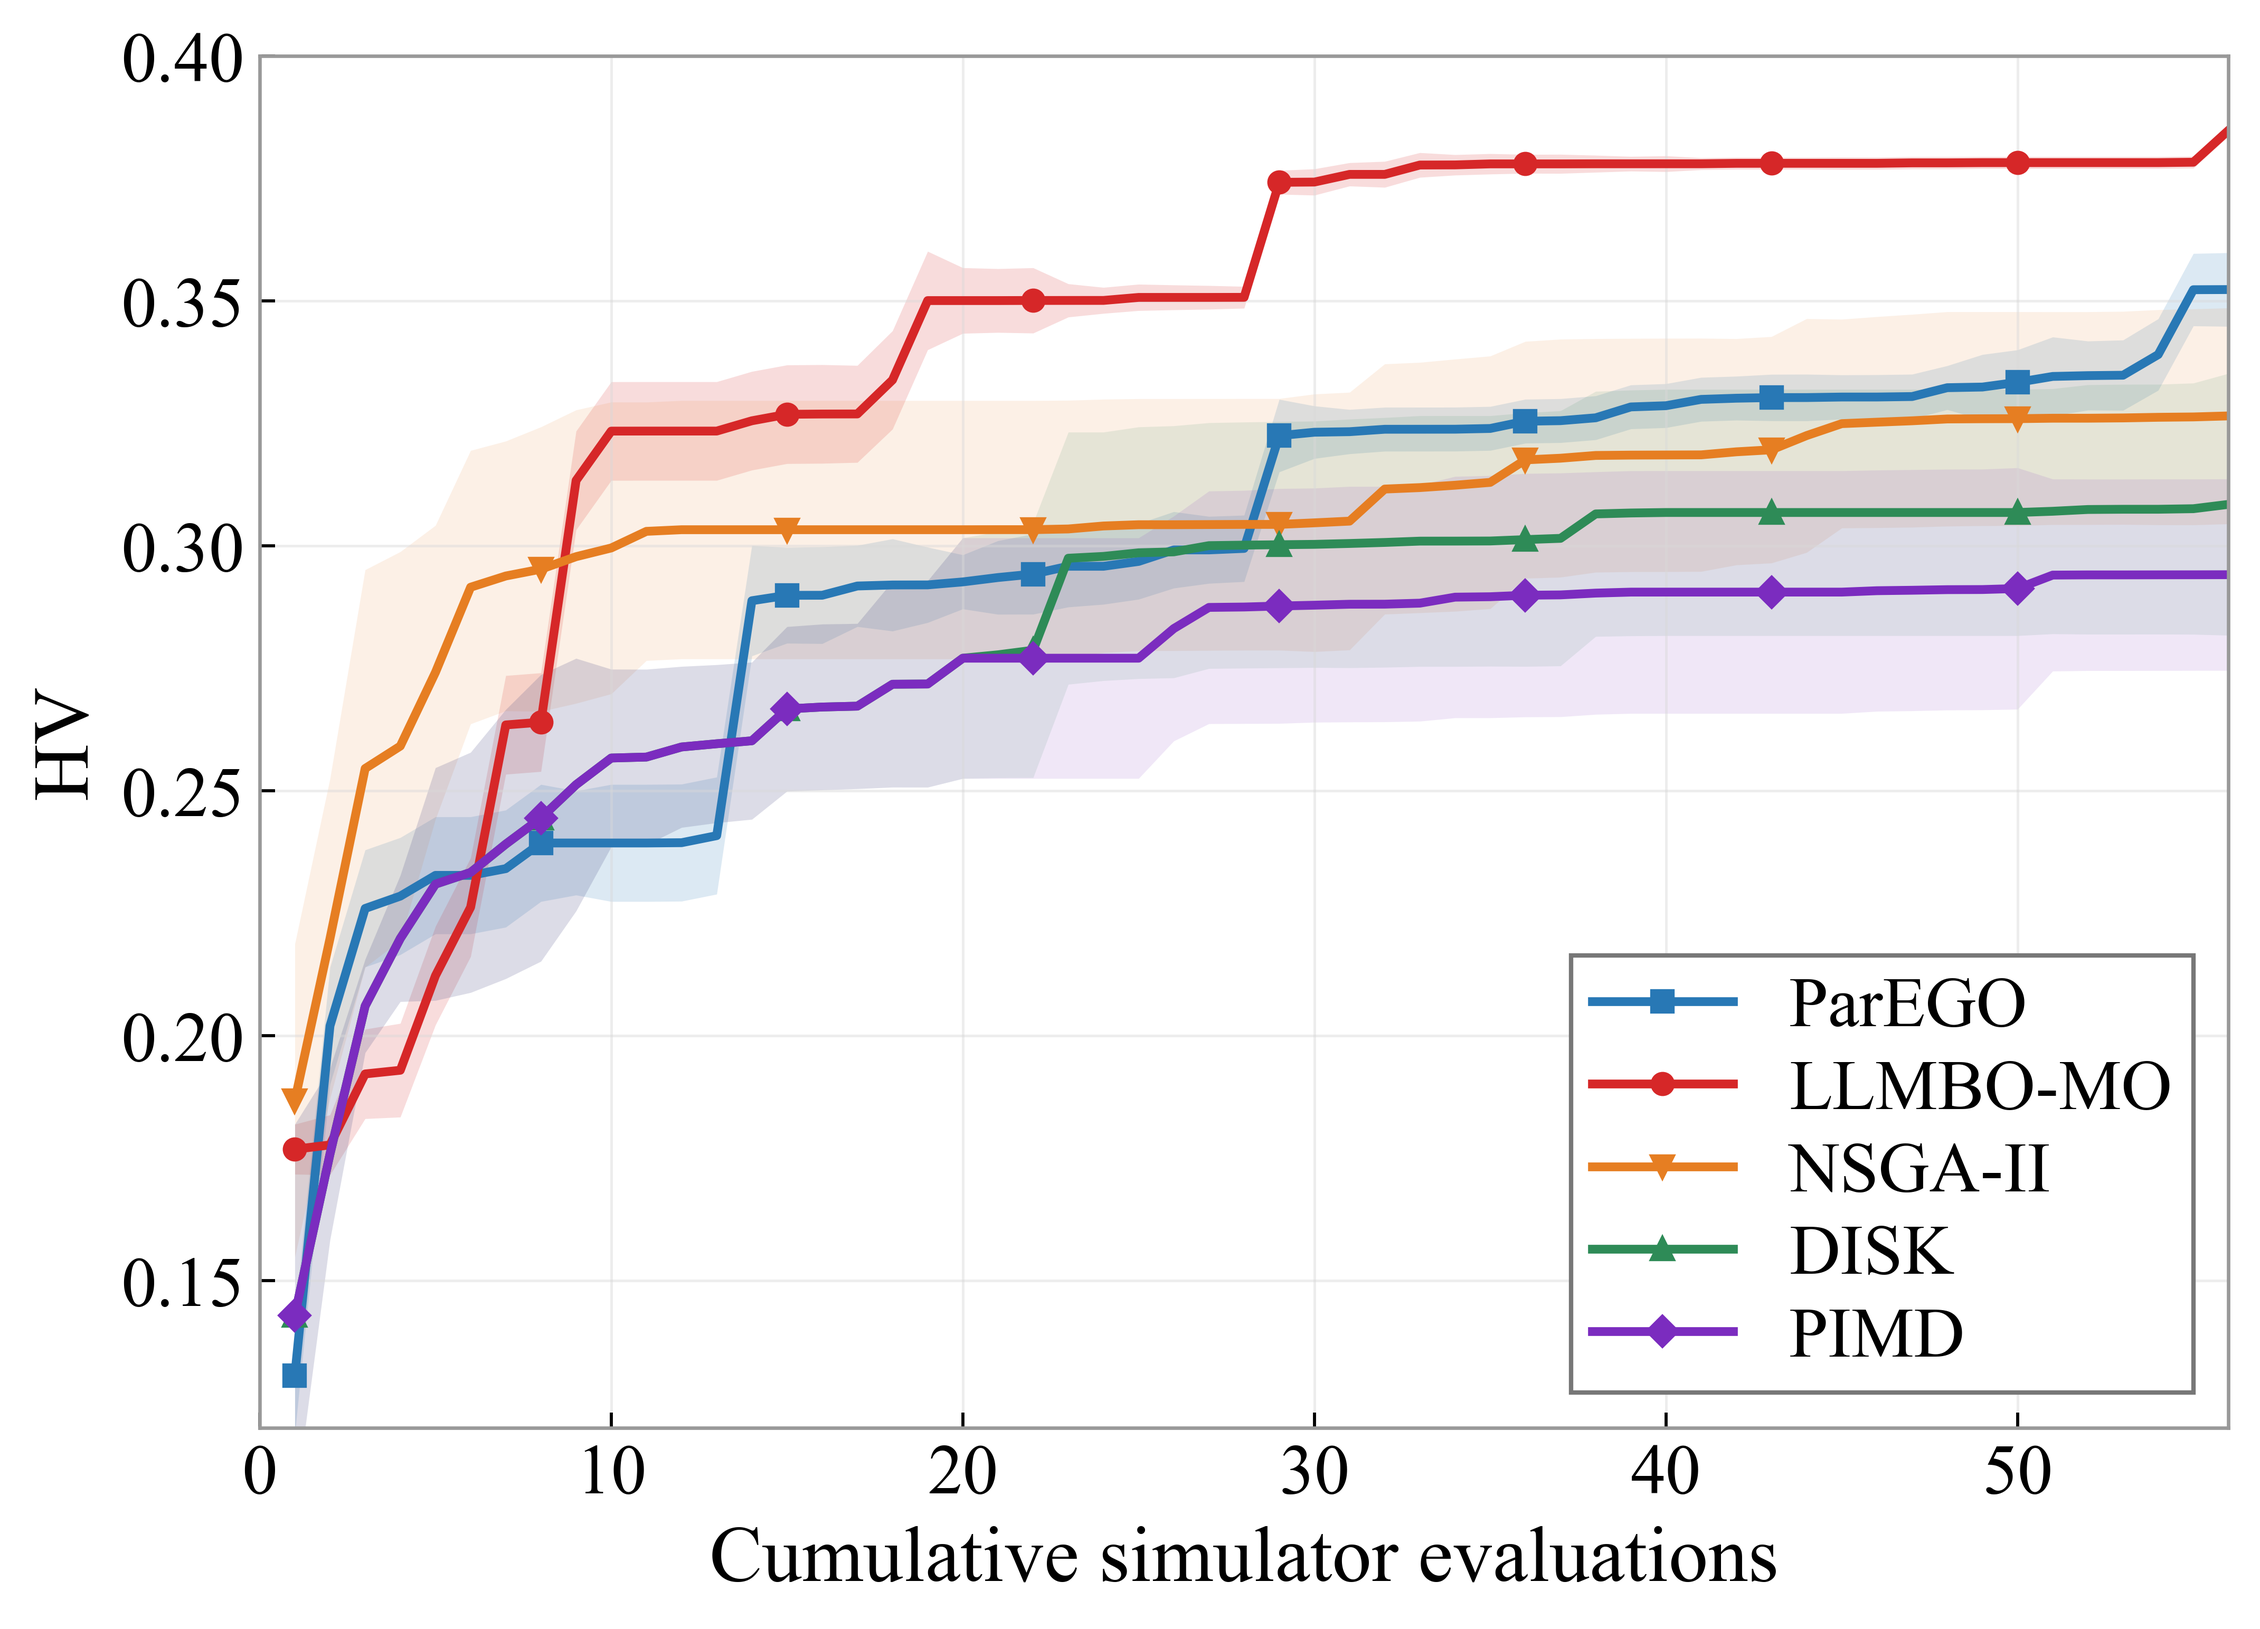
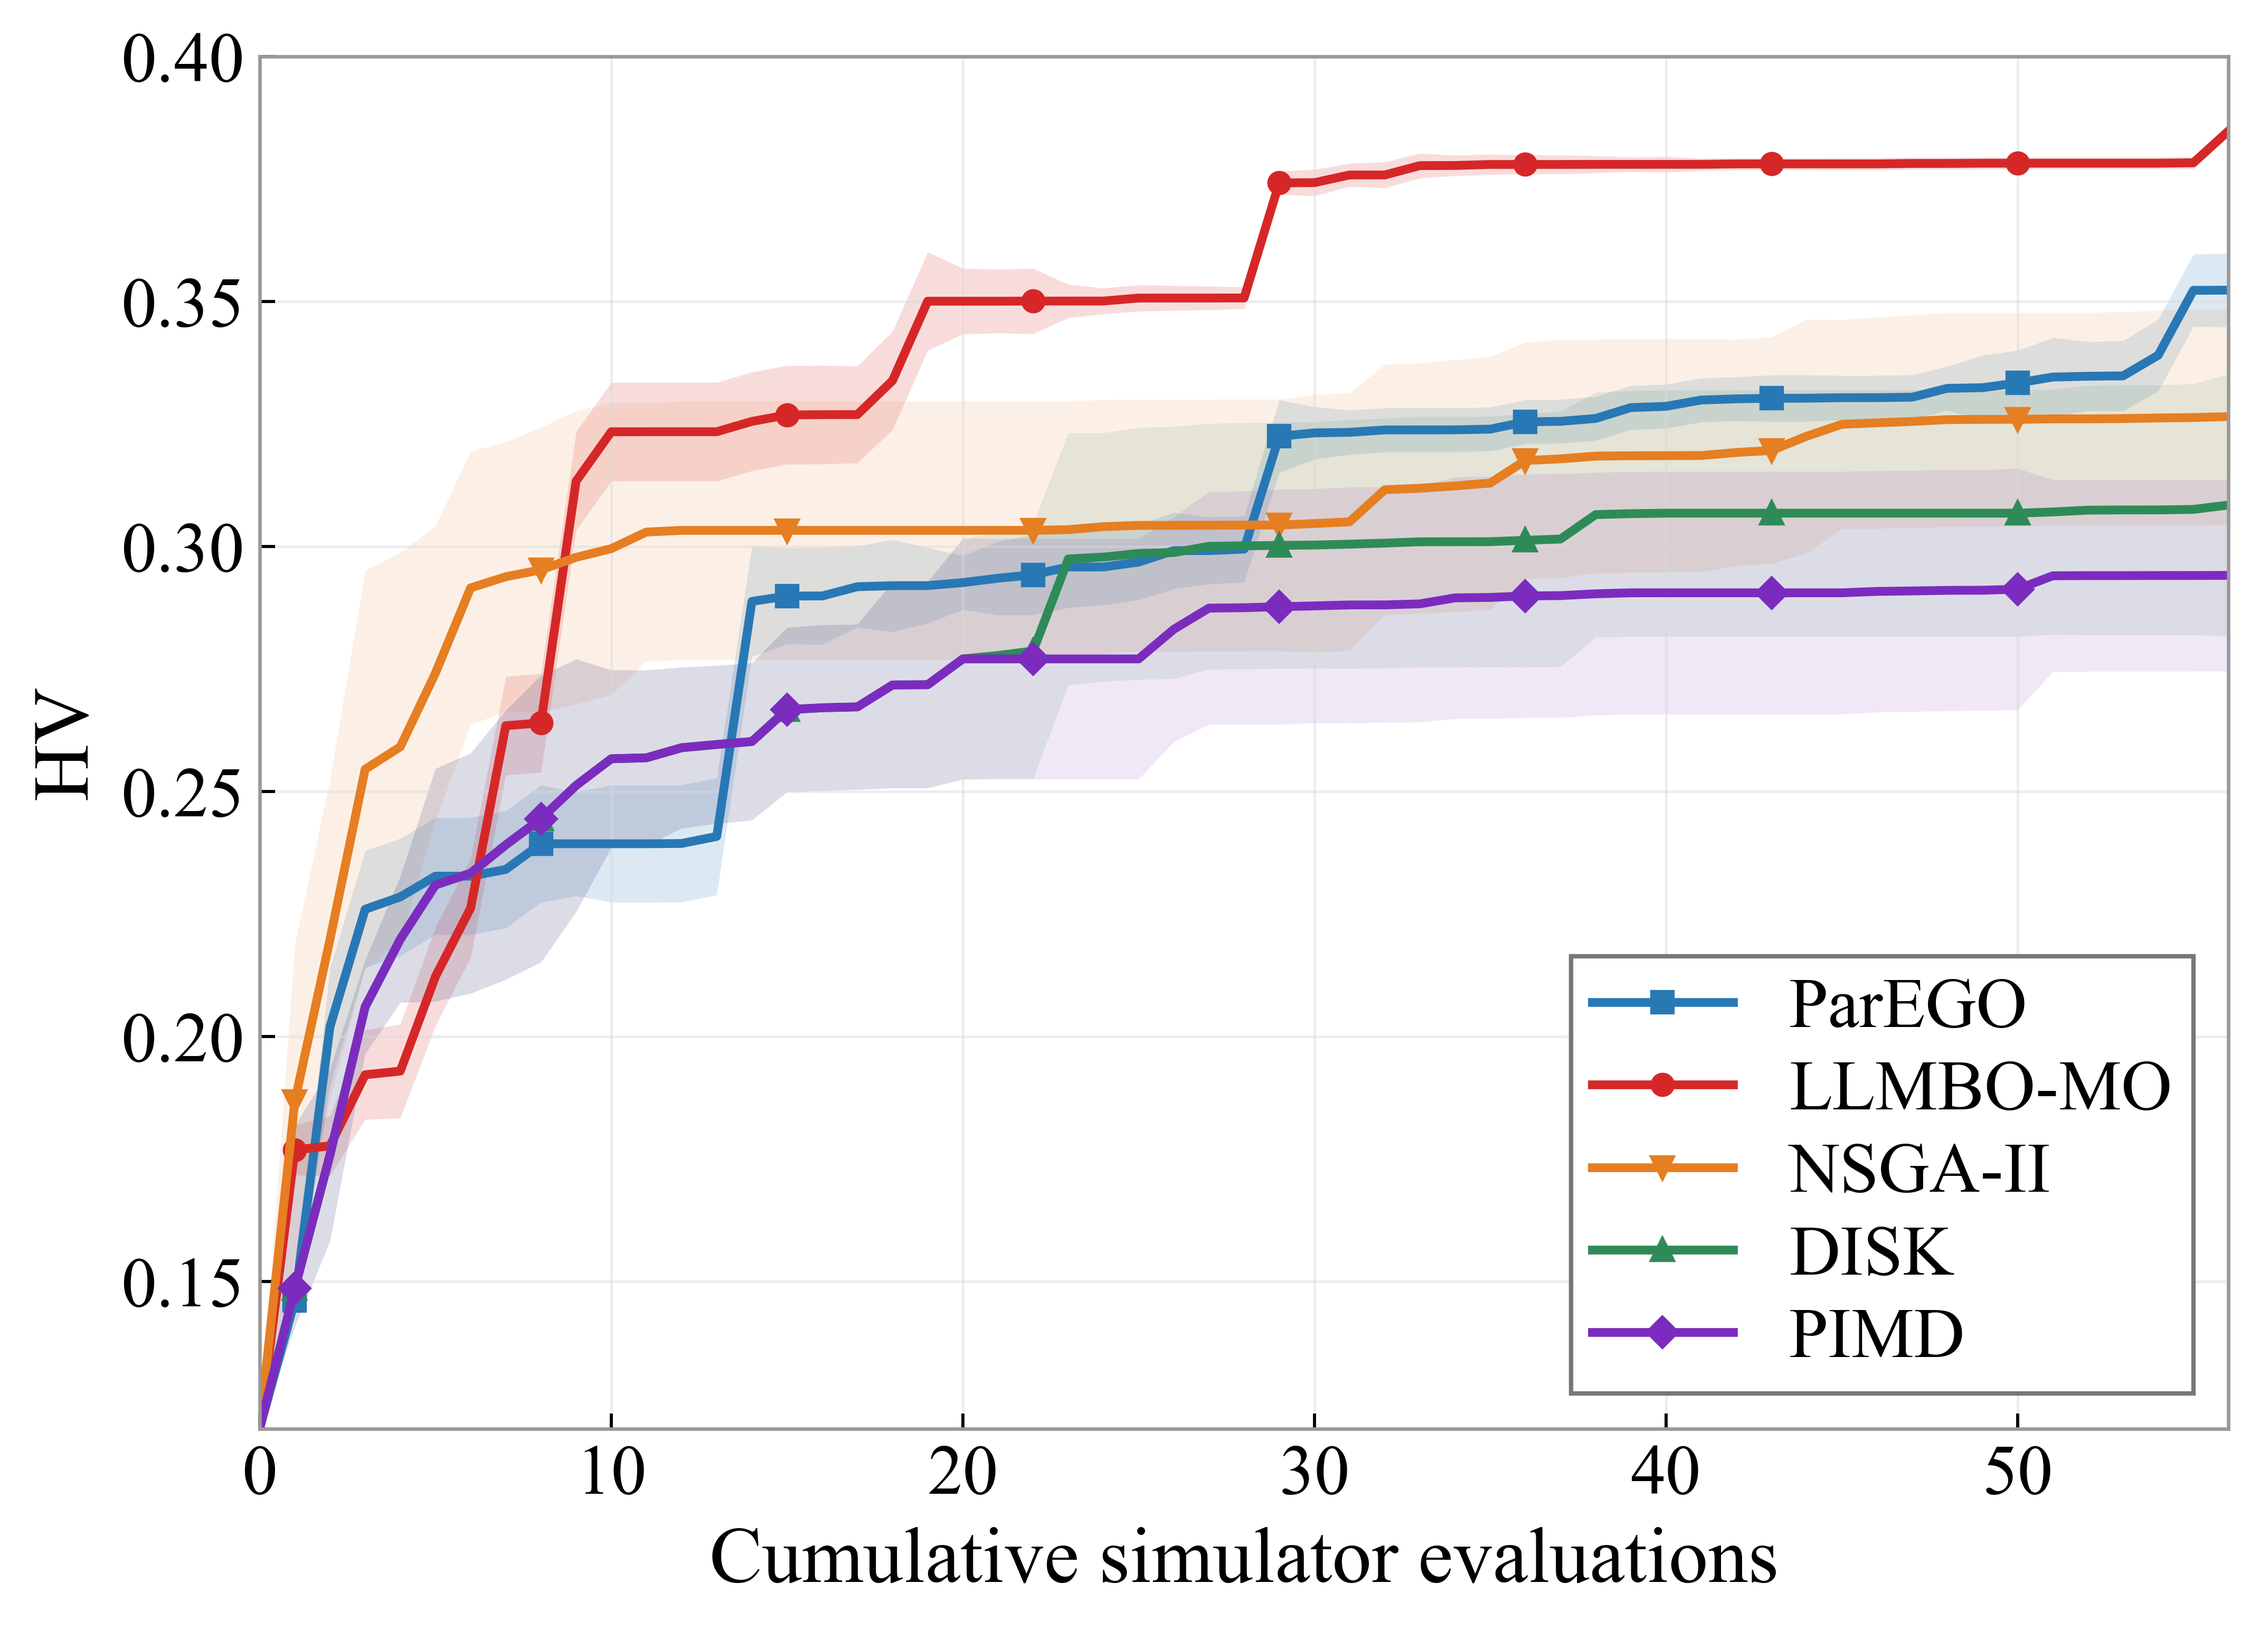
修改了两张图片

Changed region(s): [[0.0932, 0.6222, 0.1553, 0.871]]

diff --git a/scripts/make_hv_figures.py b/scripts/make_hv_figures.py
@@ -87,6 +87,7 @@ def _band_line(
     marker: str,
     alpha: float = 0.16,
     linestyle: str = "-",
+    markevery: int | list[int] = 7,
 ) -> None:
     color = COLORS[label]
     ax.fill_between(x, mean - band, mean + band, color=color, alpha=alpha, linewidth=0)
@@ -97,7 +98,7 @@ def _band_line(
         linewidth=2.0,
         linestyle=linestyle,
         marker=marker,
-        markevery=7,
+        markevery=markevery,
         markersize=4.5,
         label=label,
     )
@@ -106,6 +107,11 @@ def _band_line(
 @plt.rc_context(EIMO_STYLE)
 def make_chen(rows: list[dict[str, float]], output_dir: Path) -> dict[str, Any]:
     x = np.asarray([row["eval_index"] for row in rows])
+    if x.size == 0 or x[0] != 1:
+        raise ValueError("Chen2020 curve must begin at evaluation 1")
+    # The empty archive has zero HV before the first simulator evaluation.
+    # Keep all measured values, bands, and markers at evaluations 1 through 56.
+    plot_x = np.concatenate(([0], x))
     fig, ax = plt.subplots(figsize=(7.15, 5.15))
     specs = (
         ("ParEGO", "parego_hv", "parego_plot_band", "s", 0.16),
@@ -115,17 +121,39 @@ def make_chen(rows: list[dict[str, float]], output_dir: Path) -> dict[str, Any]:
         ("PIMD", "pimd_mean_hv", "pimd_std_hv", "D", 0.11),
     )
     for label, mean_key, band_key, marker, alpha in specs:
+        mean = np.asarray([row[mean_key] for row in rows])
+        band = np.asarray([row[band_key] for row in rows])
         _band_line(
             ax,
-            x,
-            np.asarray([row[mean_key] for row in rows]),
-            np.asarray([row[band_key] for row in rows]),
+            plot_x,
+            np.concatenate(([0.0], mean)),
+            np.concatenate(([0.0], band)),
             label=label,
             marker=marker,
             alpha=alpha,
+            markevery=list(range(1, len(plot_x), 7)),
         )
+    # Reserve a small, visible strip for the zero-HV origin while keeping the
+    # measured range close to its original visual height. The mapping is
+    # continuous and invertible, so tick labels still report actual HV values.
+    knee, lower_scale = 0.15, 0.20
+
+    def compress_lower(values: np.ndarray) -> np.ndarray:
+        values = np.asarray(values)
+        return np.where(values <= knee, lower_scale * values, lower_scale * knee + values - knee)
+
+    def restore_lower(values: np.ndarray) -> np.ndarray:
+        values = np.asarray(values)
+        return np.where(
+            values <= lower_scale * knee,
+            values / lower_scale,
+            knee + values - lower_scale * knee,
+        )
+
+    ax.set_yscale("function", functions=(compress_lower, restore_lower))
     ax.set_xlim(0, 56)
-    ax.set_ylim(0.12, 0.40)
+    ax.set_ylim(0.0, 0.40)
+    ax.set_yticks([0.15, 0.20, 0.25, 0.30, 0.35, 0.40])
     ax.set_xlabel("Cumulative simulator evaluations")
     ax.set_ylabel("HV")
     ax.grid(True)

diff --git a/sections/experiments.tex b/sections/experiments.tex
@@ -349,7 +349,7 @@ increments.
 
 \begin{figure}[!t]
 \centering
-\includegraphics[width=\columnwidth]{pareto_protocols_ae.pdf}
+\includegraphics[width=\columnwidth]{pareto_protocols_ae.png}
 \caption{Representative Pareto-optimal charging protocols on Chen2020.}
 \label{fig:pareto_profiles}
 \end{figure}
